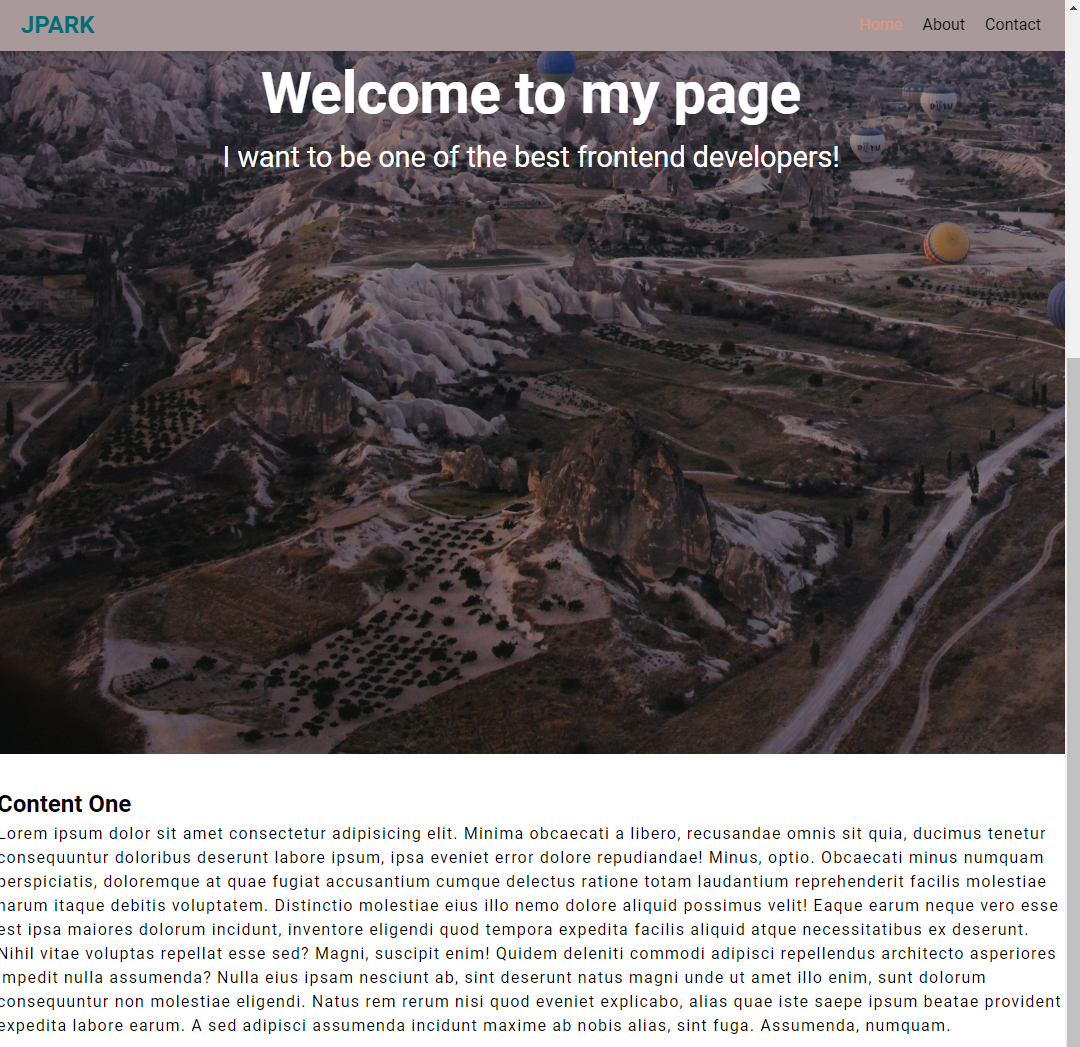
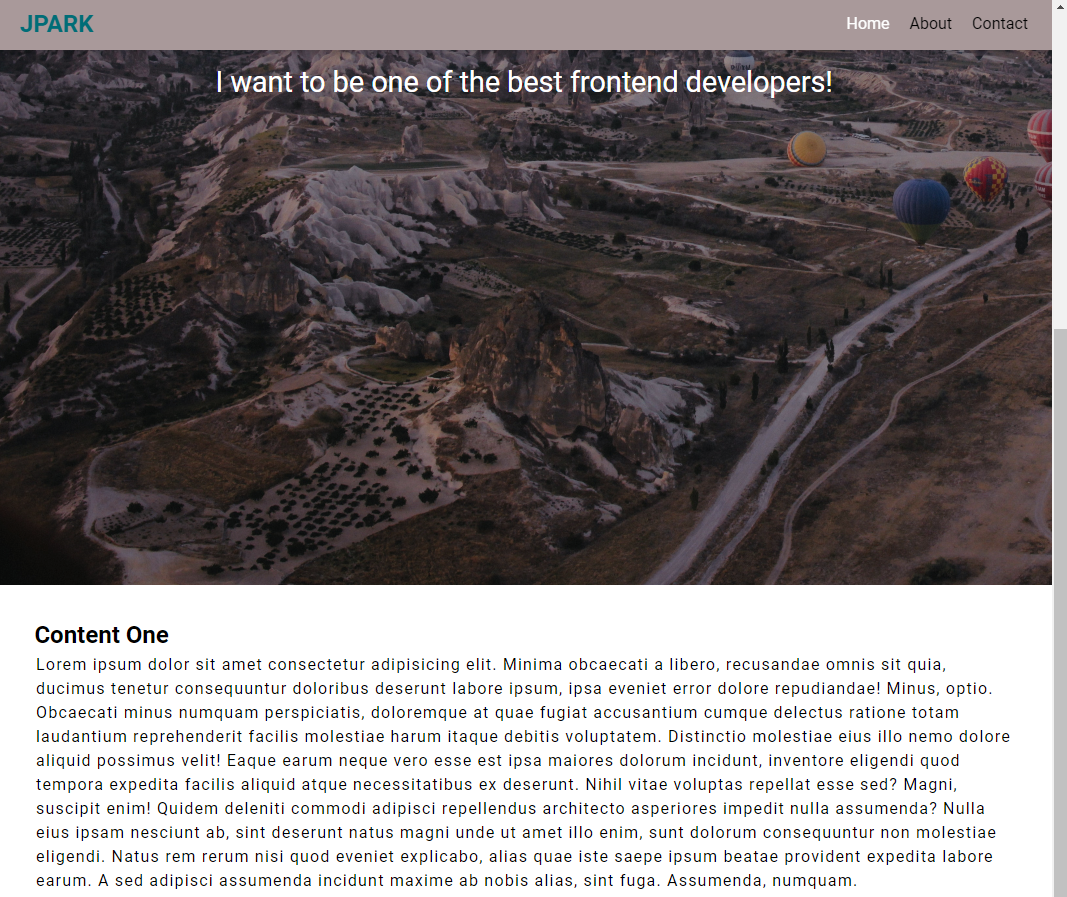
Added components to Github Profile Card and Readme

diff --git a/github-profile-card/style.css b/github-profile-card/style.css
@@ -25,14 +25,15 @@ body {
   background-color: blue;
 }
 
+/* .form-container {
+  display: flex;
+  border: 1px solid red;
+} */
+
 
 .user-form {
   width: 100%;
   max-width: 700px;
-  display: flex;
-  align-items: center;
-  justify-content: center;
-  margin-bottom: 2.5em;
 }
 
 #search {
@@ -42,18 +43,5 @@ body {
   border: none;
   padding: 1em 3em;
   background-color: #fca311;
-}
-
-.main {
-  display: block;
-}
-
-.card {
-  border: 1px solid red;
-  width: 100%;
-  max-width: 700px;
-}
-
-.img {
-  width: 100%;
+  margin-bottom: 2.5em;
 }

diff --git a/github-profile-card/index.html b/github-profile-card/index.html
@@ -13,10 +13,12 @@
 </head>
 
 <body>
-  <form class="user-form" id="form">
-    <input type="text" id="search" placeholder="Search a Github User">
-    <i class="fa-solid fa-magnifying-glass fa-2x"></i>
-  </form>
+  <div class="form-container">
+    <form class="user-form" id="form">
+      <input type="text" id="search" placeholder="Search a Github User">
+      <!-- <i class="fa-solid fa-magnifying-glass fa-2x"></i> -->
+    </form>
+  </div>
   <main class="profile-card">
     <div class="card">
       <div>

diff --git a/sticky-navbar/style.css b/sticky-navbar/style.css
@@ -75,6 +75,11 @@
   color: #e29578;
 }
 
+.nav.active a.current,
+.nav.active a:hover {
+  color: white;
+}
+
 .nav.active {
   background-color: #a9999a;
   box-shadow: 0 2px 10px rgb(0, 0, 0, 0.3);
@@ -92,4 +97,13 @@
 
 .logo {
   color: #006d77;
+}
+
+@media(max-width: 1300px) {
+  .content p {
+    margin: 0 2.5em;
+  }
+  .content h2 {
+    margin: 0 1.6em;
+  }
 }
